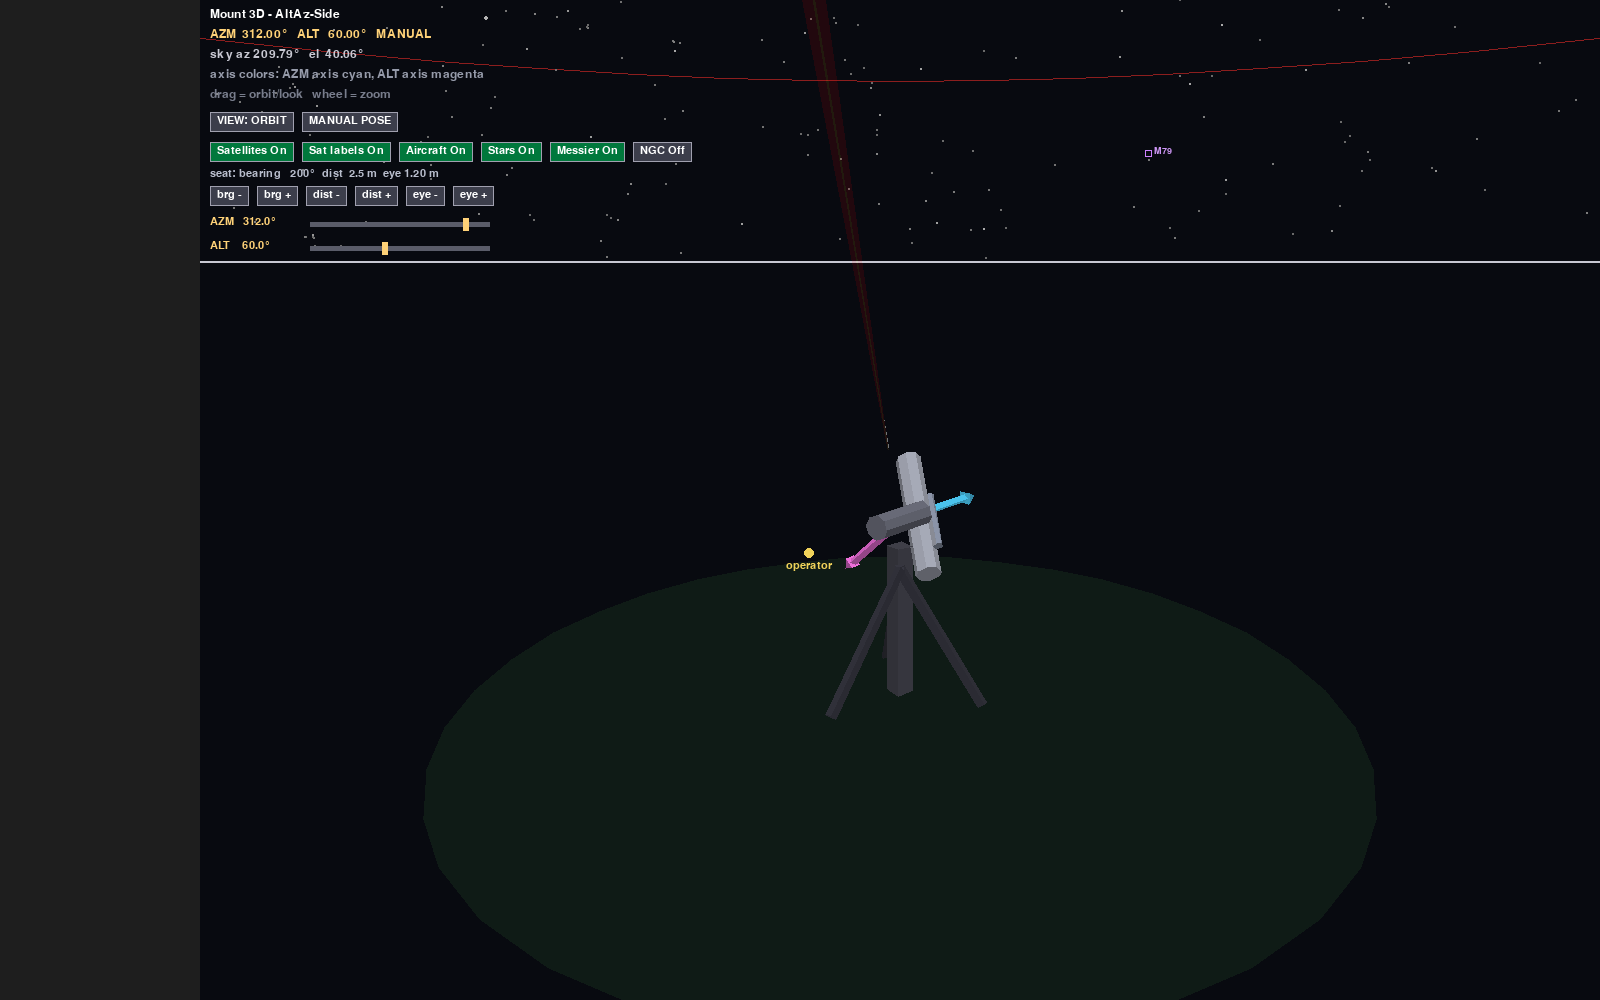
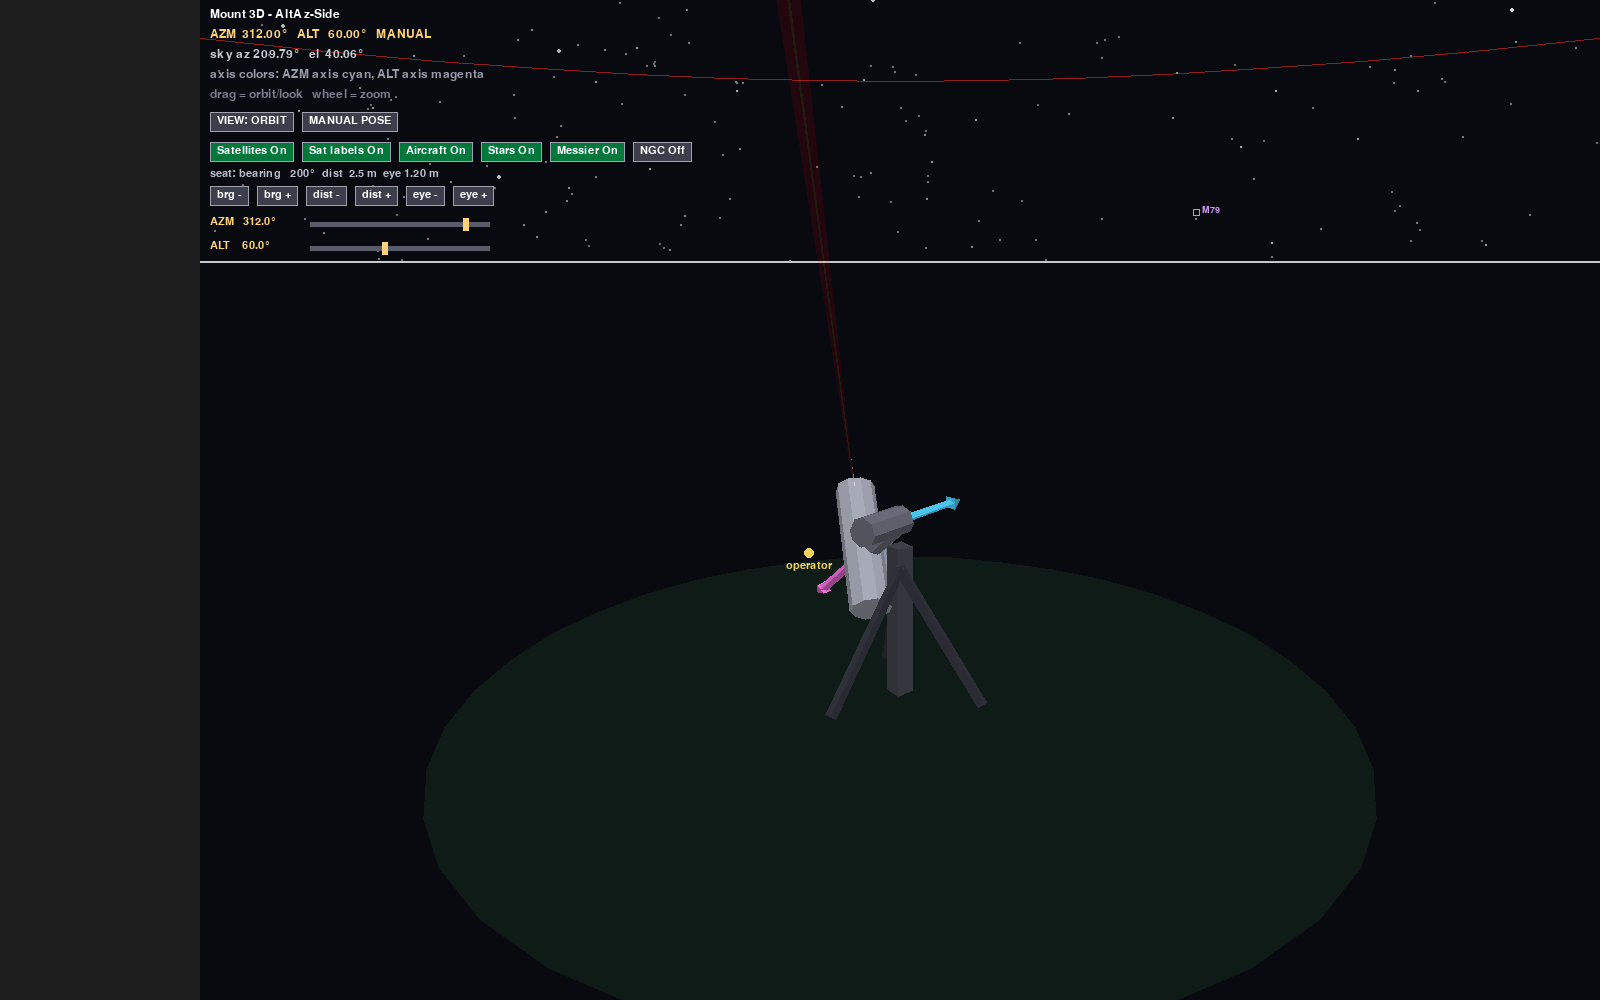
Mount 3D: realistic single-fork-arm sculpt with a rigid attachment chain
The old sculpt was a saddle-style guess: a thin OTA floating above the head,
no ALT-axis tube at all (just the arrow), and the AZ housing centered on the
head. Rebuilt as the fork-arm chain the real hardware has, each joint rigidly
attached: the AZ-axis tube's CENTER sits on the pier top (tripod attachment)
with its top end at the head; one end cap of the new ALT-axis tube (the fork
arm, 'ax1' stage -- it swings with azimuth but not altitude) bolts there and
extends out along axis 2; and the OTA -- now properly fat (radius 0.085 ->
0.14, 10-sided) -- rides the far end of the arm by its side surface, its
centerline ON the axis-2 line so it pivots in place. Guide stub keeps its
spot on top of the OTA; the magenta axis-2 arrow moved out past the OTA's
far side where it is actually visible.

Because the OTA centerline now sits OTA_ARM_OFFSET out along the posed axis
2, the boresight ray and the FOV cone apex originate there too (previously
the head point -- which is now inside the fork arm).

Dimensions are module constants (AZ_TUBE_*, ALT_TUBE_*, OTA_*,
OTA_ARM_OFFSET) so future mount-type sculpts (EQ saddle, dual fork...) can
swap geometry without hunting magic numbers. The sculpt remains generic over
the pose basis (p / axis2 / boresight), so EQ and AltAz-Side modes keep
rendering; other mount TYPES are deliberately future work.

Verified against the transform parity suite (test_mount3d passes unchanged --
[…]

Changed region(s): [[0.4688, 0.0, 0.5625, 0.403], [0.5, 0.434, 0.625, 0.62]]

diff --git a/mount3d.py b/mount3d.py
@@ -350,6 +350,19 @@ def _arrow(base, axis, length, color, stage):
     return [shaft, head]
 
 
+# Fork-arm sculpt dimensions (model metres). Rigid attachment chain:
+# tripod/pier -> center of the AXIS-1 (AZ) tube -> its top end carries one
+# end of the AXIS-2 (ALT) tube -> whose far end carries the OTA by its side
+# (single fork arm, NexStar/AVX alt-az style). The OTA centerline is offset
+# from the head along axis 2 by OTA_ARM_OFFSET -- the boresight ray and FOV
+# cone apex use the same offset so the optics emanate from the tube, not
+# from inside the arm.
+AZ_TUBE_R, AZ_TUBE_LEN = 0.10, 0.40
+ALT_TUBE_R, ALT_TUBE_LEN = 0.085, 0.32
+OTA_R, OTA_LEN = 0.14, 1.00
+OTA_ARM_OFFSET = ALT_TUBE_LEN + OTA_R * 0.85   # OTA side flush on the arm end
+
+
 def build_mount_geometry(pose):
     """Model parts in WORLD coordinates at the mount-home pose (AZM=ALT=0).
     Stages: 'base' fixed, 'ax1' rotates with axis 1, 'ax2' with the full
@@ -378,15 +391,30 @@ def build_mount_geometry(pose):
         lu, lv = _ortho_pair(leg_dir)
         parts.append(_box(mid, (lu * 0.025, lv * 0.025, leg_dir * (leg_len / 2)),
                           (55, 55, 65), 'base'))
-    # AX1 stage: housing along the axis-1 direction + its arrow.
-    parts.append(_tube(_HEAD - p * 0.24, p, 0.085, 0.48, (110, 112, 125), 'ax1'))
-    parts.extend(_arrow(_HEAD + p * 0.24, p, 0.62, AXIS1_COLOR, 'ax1'))
-    # AX2 stage: OTA tube (long axis = boresight), guide stub, axis-2 arrow.
-    ota_base = _HEAD + saddle_up * 0.17 - b0 * 0.38
-    parts.append(_tube(ota_base, b0, 0.085, 0.95, (168, 172, 185), 'ax2'))
-    parts.append(_tube(ota_base + saddle_up * 0.13 + b0 * 0.25, b0,
-                       0.032, 0.42, (140, 150, 170), 'ax2'))
-    parts.extend(_arrow(_HEAD + a2 * 0.12, a2, 0.55, AXIS2_COLOR, 'ax2'))
+
+    # AX1 stage: the AZ-axis tube, its CENTER sitting on the pier top (the
+    # tripod attachment), its top end reaching the head where the ALT tube
+    # bolts on. Plus the cyan axis-1 arrow.
+    az_base = _HEAD - p * (0.18 + AZ_TUBE_LEN / 2)   # center at pier top
+    parts.append(_tube(az_base, p, AZ_TUBE_R, AZ_TUBE_LEN, (110, 112, 125), 'ax1'))
+    parts.extend(_arrow(_HEAD + p * 0.06, p, 0.62, AXIS1_COLOR, 'ax1'))
+
+    # AX1 stage: the ALT-axis tube (fork arm). One end cap rigidly at the AZ
+    # tube's top end (the head); it extends sideways along axis 2. It swings
+    # with azimuth but not with altitude, hence 'ax1'.
+    parts.append(_tube(_HEAD, a2, ALT_TUBE_R, ALT_TUBE_LEN, (120, 122, 138), 'ax1'))
+
+    # AX2 stage: the OTA, fatter, side-mounted -- its side surface rides the
+    # far end of the ALT tube, centerline on the axis-2 line so it pivots in
+    # place. Guide-scope stub on top, magenta axis-2 arrow poking out past
+    # the far side of the OTA.
+    ota_center = _HEAD + a2 * OTA_ARM_OFFSET
+    ota_base = ota_center - b0 * (OTA_LEN * 0.45)
+    parts.append(_tube(ota_base, b0, OTA_R, OTA_LEN, (168, 172, 185), 'ax2', nsides=10))
+    parts.append(_tube(ota_base + saddle_up * (OTA_R + 0.032) + b0 * (OTA_LEN * 0.3),
+                       b0, 0.032, 0.42, (140, 150, 170), 'ax2'))
+    parts.extend(_arrow(_HEAD + a2 * (OTA_ARM_OFFSET + OTA_R + 0.02), a2,
+                        0.45, AXIS2_COLOR, 'ax2'))
     return parts
 
 
@@ -847,16 +875,19 @@ def render_mount3d_on_surface(surface, config_state, tracking_vis_state,
     for _z, poly, col in faces:
         pygame.draw.polygon(surface, col, poly)
 
-    # Boresight ray (thin, from the tube out toward the sky sphere).
-    tip = _HEAD + pose['boresight'] * 0.62
-    far = _HEAD + pose['boresight'] * (R_SKY * 0.5)
+    # Boresight ray (thin, from the tube out toward the sky sphere). The OTA
+    # centerline sits OTA_ARM_OFFSET out along the posed axis 2 (fork arm),
+    # so the ray/cones originate there, not at the head inside the arm.
+    ota_origin = _HEAD + pose['axis2_world'] * OTA_ARM_OFFSET
+    tip = ota_origin + pose['boresight'] * (OTA_LEN * 0.58)
+    far = ota_origin + pose['boresight'] * (R_SKY * 0.5)
     bsx, bsy, bz = project_points(np.array([tip, far]), R, cam, cx, cy, focal)
     if bz[0] > 0.05 and bz[1] > 0.05:
         pygame.draw.line(overlay, (255, 255, 255, 110),
                          (int(bsx[0]), int(bsy[0])), (int(bsx[1]), int(bsy[1])), 1)
 
     # --- FOV cones ----------------------------------------------------------
-    apex = _HEAD + pose['boresight'] * 0.6
+    apex = ota_origin + pose['boresight'] * (OTA_LEN * 0.56)
     for spec in camera_fov_specs(config_state):
         corners = fov_corner_dirs(pose['boresight'], pose['axis2_world'],
                                   spec['fov_width_deg'], spec['fov_height_deg'],

diff --git a/README.md b/README.md
@@ -129,7 +129,9 @@ alignment-rotation / ROI controls for co-boresighting the guide and main cameras
 ![Sensor Calibration](doc/screenshots/sensor_calib.png)
 
 **Mount 3D** — a software-3D view of the mount for building alignment
-intuition: the articulated model poses from the live axis angles through the
+intuition: the articulated single-fork-arm model (tripod → AZ-axis tube →
+ALT-axis arm → side-mounted OTA, each rigidly attached like the real
+hardware) poses from the live axis angles through the
 **same forward transforms the tracker uses** (pinned by a parity test suite),
 per mount mode — shown here in AltAz-Side, where the cyan AZM-axis arrow lies
 on the horizon at the alignment azimuth. Both cameras' FOV cones sweep a real
